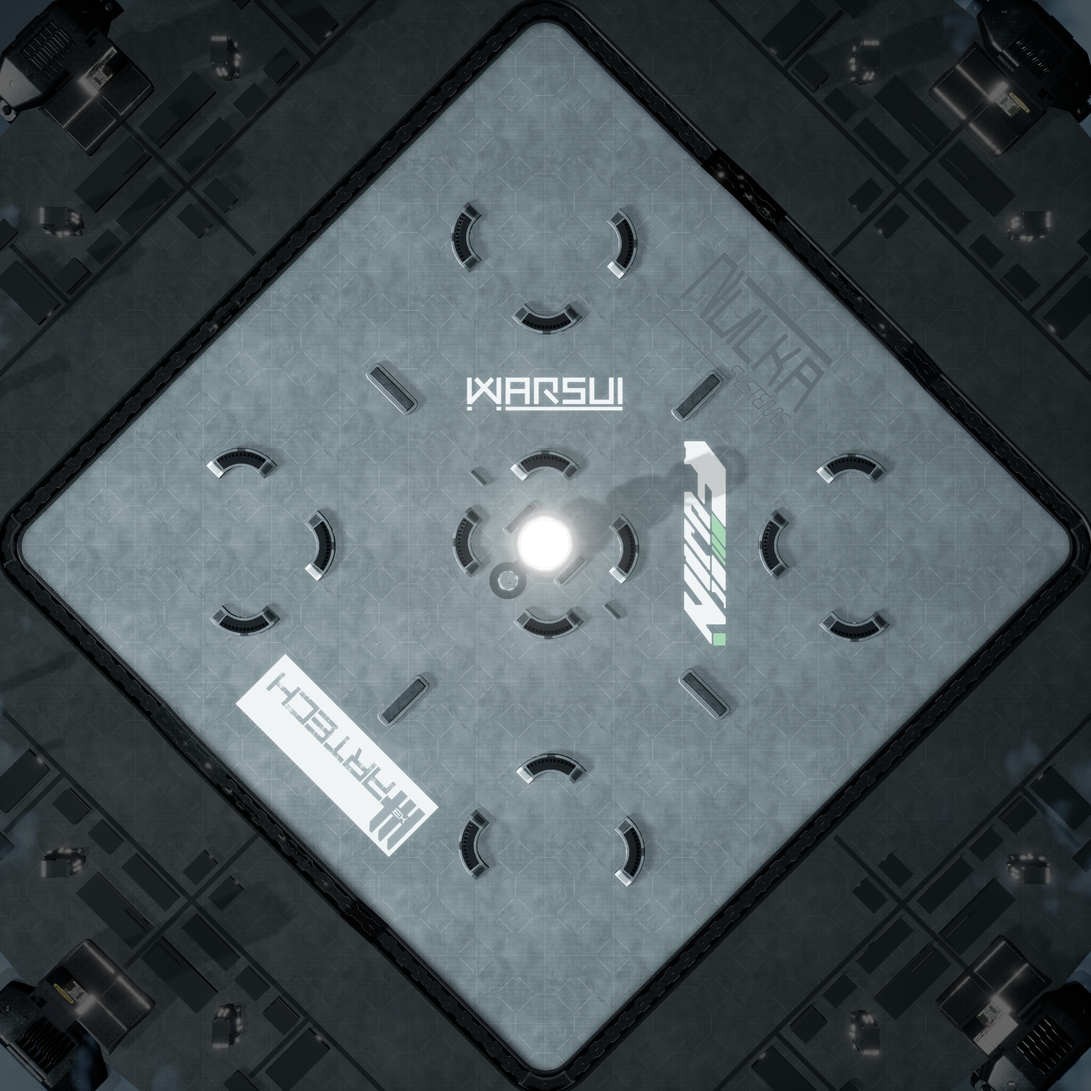
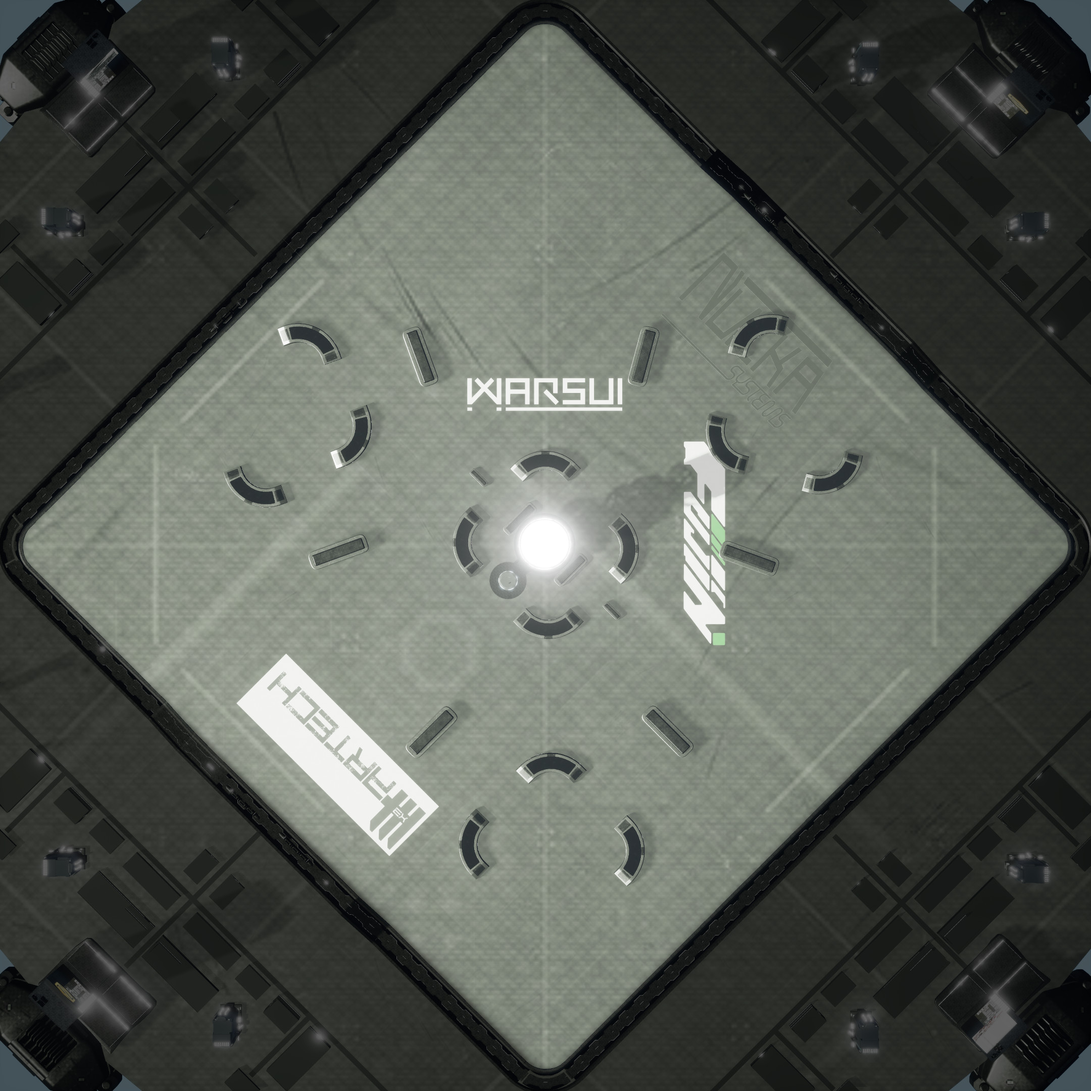
CloudKu9 design changes
Updated CloudKu MiniMapImage, sequencer and MapDetails.h.

diff --git a/Source/Supremacy/Public/MapDetails.h b/Source/Supremacy/Public/MapDetails.h
@@ -93,7 +93,7 @@ static const TMap<FString, FMapDetails> SupremacyMapDetails = {
     "CloudKu",
     {
       "CloudKu 9",
-      "https://ninjasoftware-static-media.s3.ap-southeast-2.amazonaws.com/supremacy/maps/CloudKu.webp",
+      "https://ninjasoftware-static-media.s3.ap-southeast-2.amazonaws.com/supremacy/maps/WebP/CloudKu_2160.webp",
       2160, 2160,
       128,  128,
       -128000, -128000,
